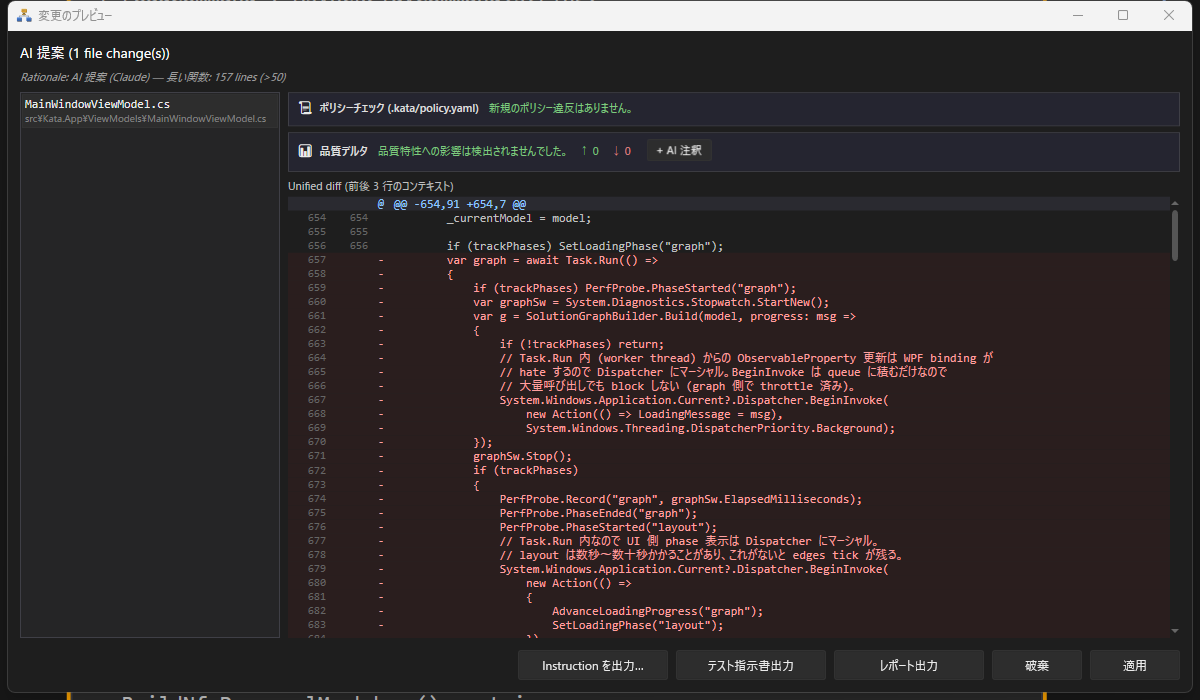
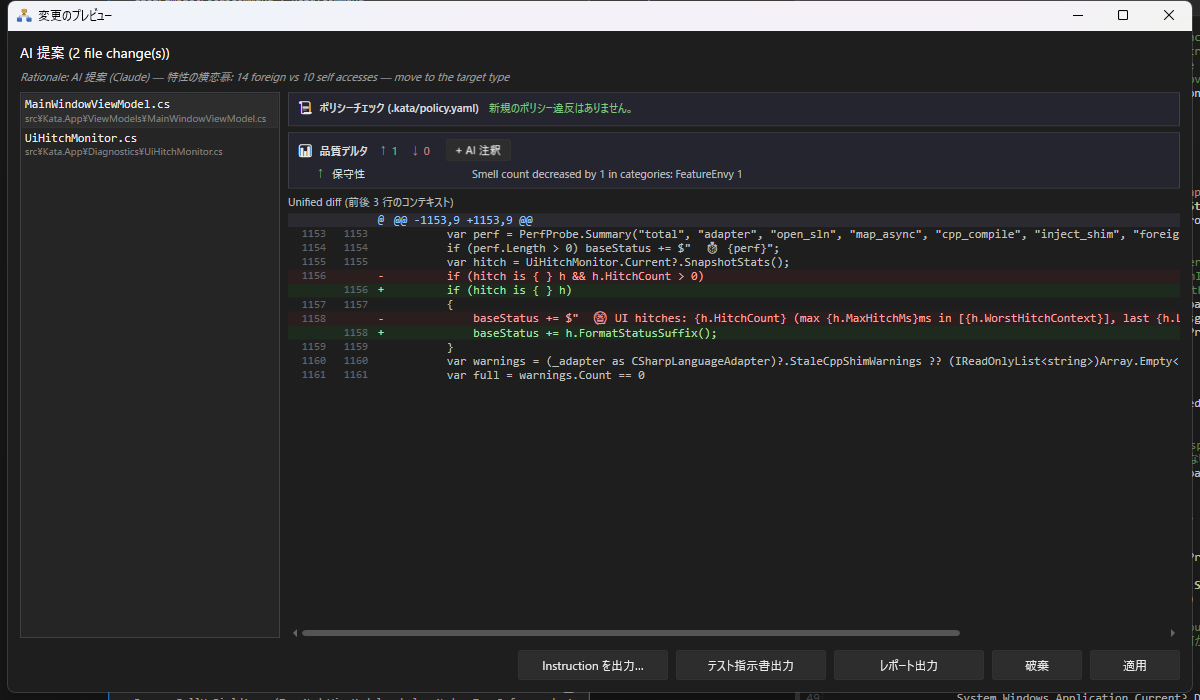
site: smell badge / AI diff の shot を差し替え
- kata-smell-badge.png: メソッド行に 💩 が並んで見える構図に (前版は class 💩 1 個だけで寂しかった)
- kata-ai-diff.png: RefreshLoadStatus の Feature Envy を Move Method する Claude 提案。品質デルタが ↑1 ↓0 で保守性向上、削除+追加行の transition も自然に映る
- Smell badges の caption を "class header 中心" から "method 中心 + class-level も" に書き換え

diff --git a/site/index.html b/site/index.html
@@ -130,7 +130,7 @@
     <div class="showcase-grid">
       <figure>
         <img src="/assets/kata-smell-badge.png" alt="Kata class diagram closeup — MainWindowViewModel class header with a 💩 smell badge in the top-right corner, marking it as a God Class." loading="lazy">
-        <figcaption><strong>Smell badges</strong> — 💩 on the class header flags God Classes; per-member badges appear on individual long methods and message chains.</figcaption>
+        <figcaption><strong>Smell badges</strong> — 💩 marks every smelly method right on the diagram: long functions, feature envy, message chains, and 20+ more Fowler smells. Class-level smells (God Class, Data Class) get their own badge on the class header.</figcaption>
       </figure>
       <figure>
         <img src="/assets/kata-refactor-dialog.png" alt="Extract Superclass refactoring dialog — source class, new superclass name field, and a checkbox list of pull-up member candidates." loading="lazy">
